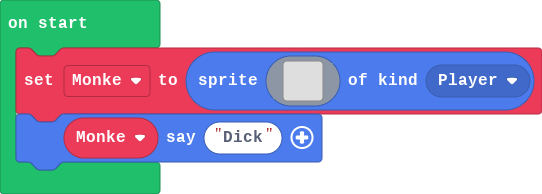
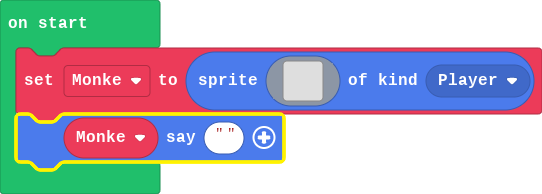
Update main.blocks, main.ts

Changed region(s): [[0.0, 0.5567, 0.6199, 0.8969]]

diff --git a/main.ts b/main.ts
@@ -16,4 +16,4 @@ let Monke = sprites.create(img`
     . . . . . . . . . . . . . . . . 
     . . . . . . . . . . . . . . . . 
     `, SpriteKind.Player)
-Monke.sayText("Dick")
+Monke.sayText("")
